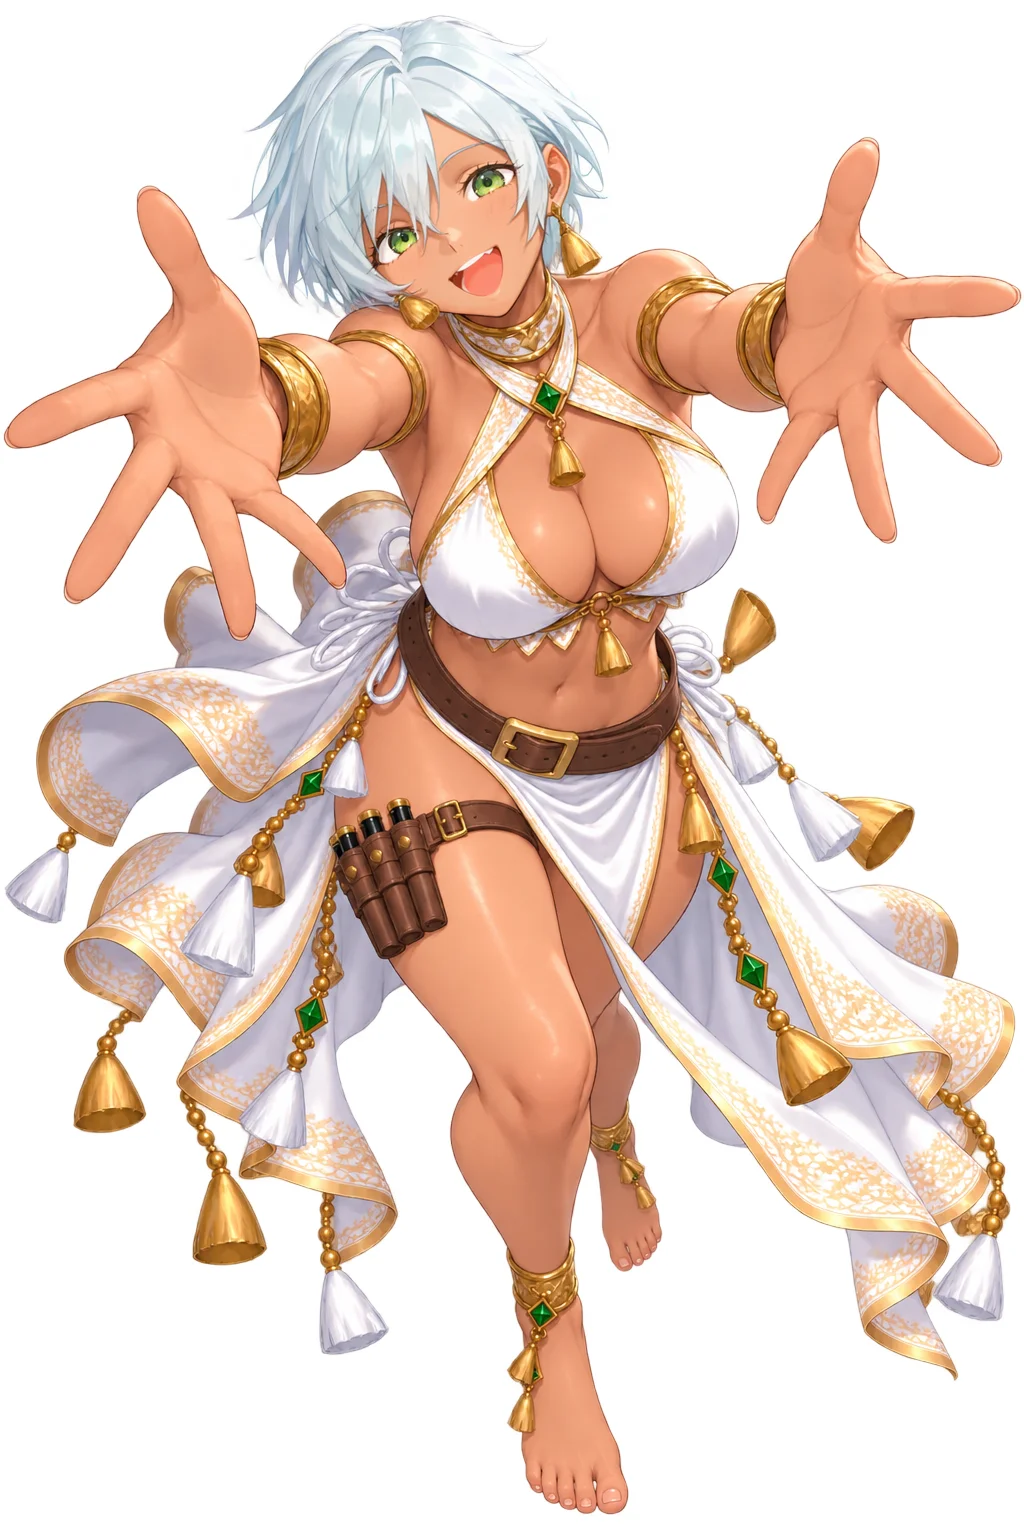
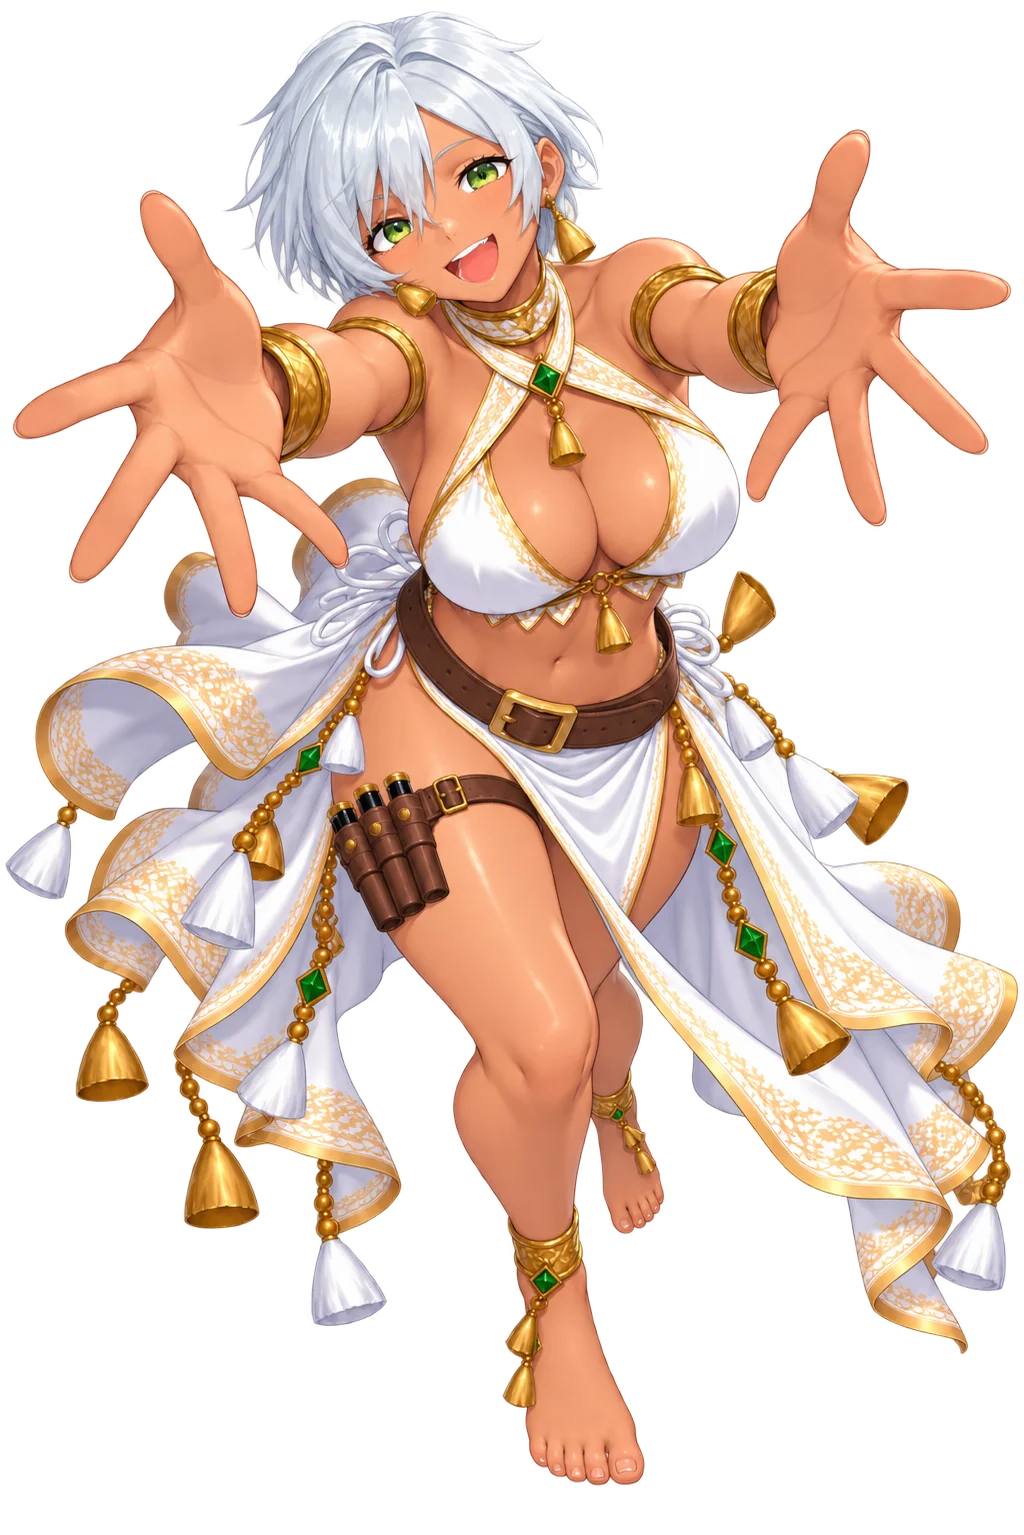
fix(story): 職責/有他在＝同一拍好感分歧（T1/T2 各播一句）；hug 換新圖重量取景 ver -843

diff --git a/script/town.js b/script/town.js
@@ -1896,9 +1896,11 @@ export const TOWNS = {
           nou('surprise','咦？不要吧？'),
           ren('thinking','不......倒也不是不能試試。'),
           sor('tired','就你們幾個人想去探遺蹟？別鬧了，會出人命的。'),
+          /* ══ ver -843 修：這是**一拍的好感分歧**（Ray：「兩句都跑出來了」）——
+             T1 只播「討伐禍魘」句（front）、T2 以上只播「有他在」句（bow）。
+             稿上另外標的 talkwork／front 是各句另一段位的表情，選字之後用不到。 */
           { speaker:'RENNA', text:'討伐禍魘，本就是聖王廳的職責。',
-            portrait:{ char:'RENNA', exprByTier:{ 1:'front', 2:'talkwork' }, show:true } },
-          { speaker:'RENNA', text:'有他在，區區禍魘威脅不了我們的。',
+            textByTier:{ 1:'討伐禍魘，本就是聖王廳的職責。', 2:'有他在，區區禍魘威脅不了我們的。' },
             portrait:{ char:'RENNA', exprByTier:{ 1:'front', 2:'bow' }, show:true } },
           { speaker:'PLAYER', blank:true },
           { speaker:'RENNA', text:'所以請你這次務必寸步不離。',

diff --git a/script/speakers.js b/script/speakers.js
@@ -322,7 +322,7 @@ export const ART = {
        逐張量（measure_si.py）。腳本還沒有用到它 —— 先掛著備用。 */
     tease:        { src:'resources/SI/Sorana_SI_tease.webp',         top:7,  bot:1528, fx:0.583 },
     surprised:    { src:'resources/SI/Sorana_SI_surprised.webp',     top:9,  bot:1522, fx:0.537 },   // ver -842
-    hug:          { src:'resources/SI/Sorana_SI_hug.webp',           top:0,  bot:1535, fx:0.500 } } },  // ver -842
+    hug:          { src:'resources/SI/Sorana_SI_hug.webp?v=2',       top:11, bot:1485, fx:0.408 } } },  // ver -843：Ray 換新圖＋重量（?v=2 同名覆蓋）
   /* ⚠ 取景值於 ver -624 **重量**：`Anya_SI_front` 換過圖（舊的留成
      `XAnya_SI_front.webp`）—— §5「換圖一定要重量取景值」。
      ⚠ `flight/index.html` 的 `PORTRAIT.anya` 是同一組數字，改一邊要改另一邊。 */

diff --git a/config.js b/config.js
@@ -49,7 +49,7 @@ export const HITFX = {
  *     以為是快取卡住 —— 版本號不動就等於沒有版本號）。
  *  ⚠ 它同時是**暖開機戳記的鑰匙**（main.js 的 `WARM_BOOT`）：版本一變，
  *    上一版的戳記就失效 → 下一次開機重跑完整讀取。那正是改版後該有的行為。 */
-export const VERSION = 'ver 2026.09.06-842';
+export const VERSION = 'ver 2026.09.06-843';
 
 export const GAME_CONFIG = {
 
